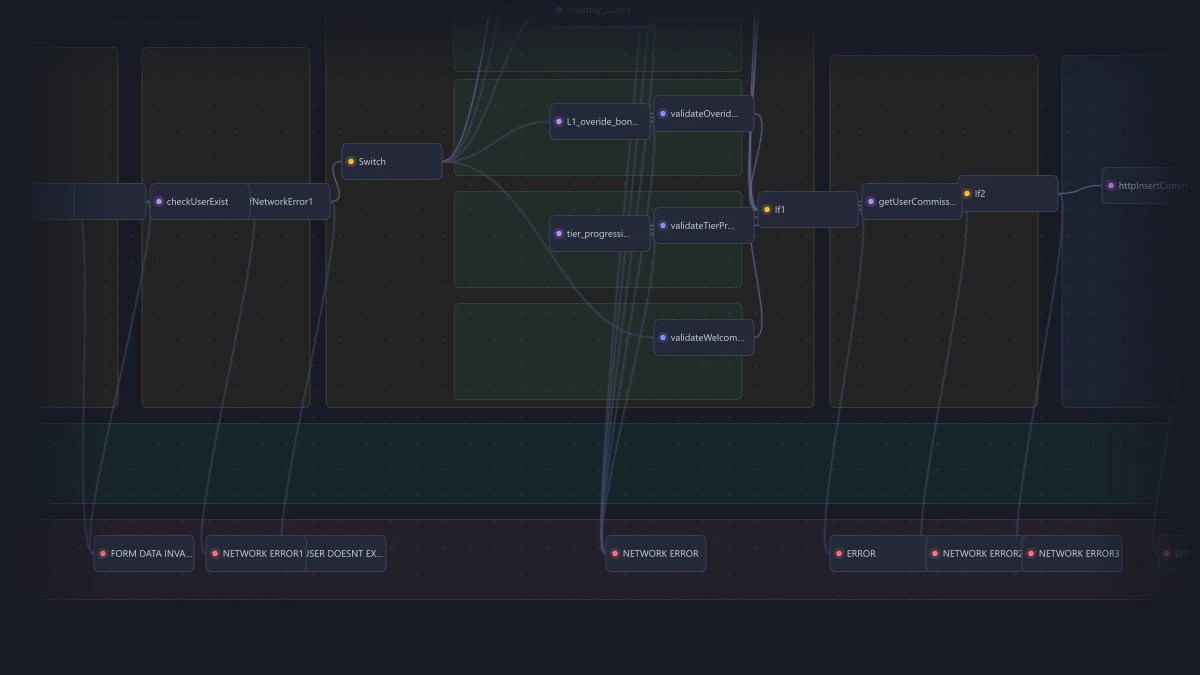
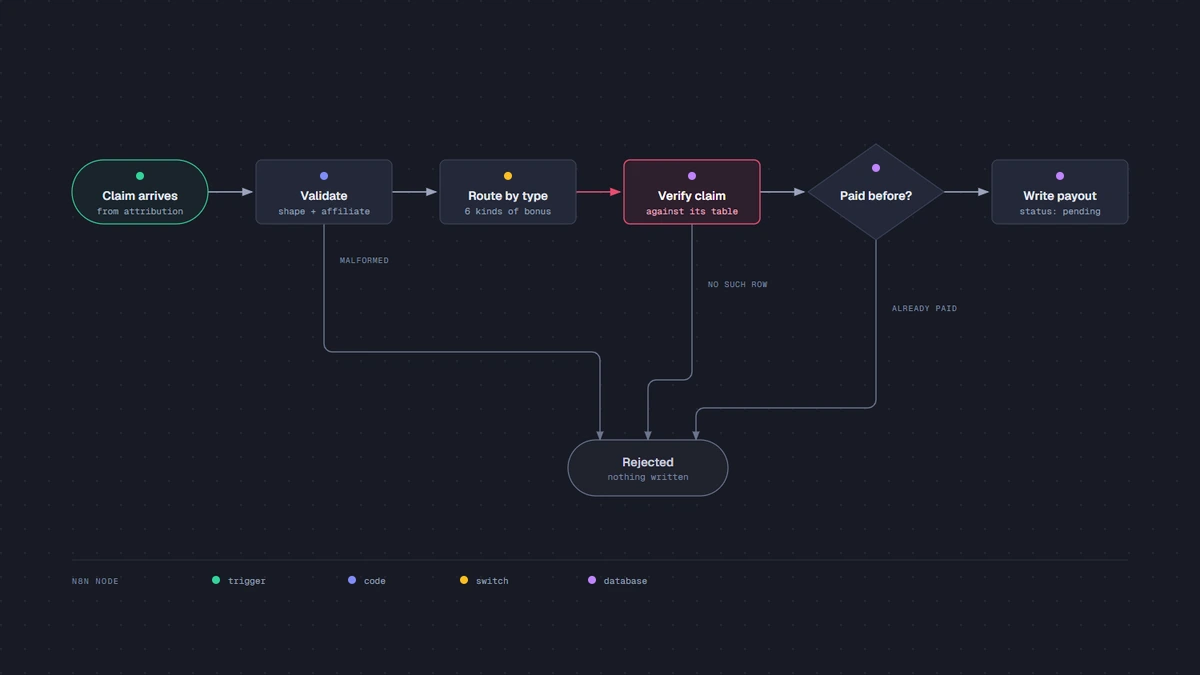
redraw the commission engine as a proper flowchart

diff --git a/scripts/diagrams/commission-engine.html b/scripts/diagrams/commission-engine.html
@@ -1,0 +1,128 @@
+<!DOCTYPE html>
+<html lang="en">
+<head>
+  <meta charset="UTF-8">
+  <meta name="viewport" content="width=device-width, initial-scale=1.0">
+  <title>Commission engine</title>
+  <link href="https://fonts.googleapis.com/css2?family=Instrument+Serif:ital@0;1&family=Geist:wght@400;500;600&family=Geist+Mono:wght@400;500;600&display=swap" rel="stylesheet">
+  <style>
+    *, *::before, *::after { box-sizing: border-box; margin: 0; padding: 0; }
+    body { background: #171a24; font-family: 'Geist', system-ui, sans-serif; }
+    /* The export target: exactly the card's 16:9 frame, nothing around it. */
+    svg#d { width: 1200px; height: 675px; display: block; }
+  </style>
+</head>
+<body>
+  <svg id="d" viewBox="0 0 1200 675" xmlns="http://www.w3.org/2000/svg"
+       role="img" aria-labelledby="commission-engine-title commission-engine-desc">
+    <title id="commission-engine-title">Commission engine</title>
+    <desc id="commission-engine-desc">A commission claim is validated, routed by commission type, checked against the source-of-truth table for that type, screened for duplicates, and only then written as a pending commission. Failing any of those three gates rejects the claim and writes nothing.</desc>
+
+    <defs>
+      <marker id="arrow" markerWidth="8" markerHeight="6" refX="7" refY="3" orient="auto">
+        <polygon points="0 0, 8 3, 0 6" fill="#9aa4bd"/>
+      </marker>
+      <marker id="arrow-accent" markerWidth="8" markerHeight="6" refX="7" refY="3" orient="auto">
+        <polygon points="0 0, 8 3, 0 6" fill="#ea4b71"/>
+      </marker>
+      <marker id="arrow-soft" markerWidth="8" markerHeight="6" refX="7" refY="3" orient="auto">
+        <polygon points="0 0, 8 3, 0 6" fill="#6b7590"/>
+      </marker>
+      <pattern id="dots" width="24" height="24" patternUnits="userSpaceOnUse">
+        <circle cx="1" cy="1" r="1" fill="rgba(232,236,245,0.07)"/>
+      </pattern>
+    </defs>
+
+    <rect width="100%" height="100%" fill="#171a24"/>
+    <rect width="100%" height="100%" fill="url(#dots)"/>
+
+    <!-- ══ arrows first, so nodes paint over the stroke ends ══ -->
+
+    <!-- happy path: one spine, left to right. The accented leg is the claim
+         reaching the check that actually decides whether it is real. -->
+    <line x1="208" y1="192" x2="252" y2="192" stroke="#9aa4bd" stroke-width="1.4" marker-end="url(#arrow)"/>
+    <line x1="392" y1="192" x2="436" y2="192" stroke="#9aa4bd" stroke-width="1.4" marker-end="url(#arrow)"/>
+    <line x1="576" y1="192" x2="620" y2="192" stroke="#ea4b71" stroke-width="1.4" marker-end="url(#arrow-accent)"/>
+    <line x1="760" y1="192" x2="804" y2="192" stroke="#9aa4bd" stroke-width="1.4" marker-end="url(#arrow)"/>
+    <line x1="944" y1="192" x2="988" y2="192" stroke="#9aa4bd" stroke-width="1.4" marker-end="url(#arrow)"/>
+
+    <!-- Three gates drop to one outcome. Each gets its own rail height and its
+         own attach point on the oval, so no two strokes ever share a path. -->
+    <path d="M324,224 V344 a8,8 0 0 0 8,8 H592 a8,8 0 0 1 8,8 V440"
+          fill="none" stroke="#6b7590" stroke-width="1.2" marker-end="url(#arrow-soft)"/>
+    <path d="M692,224 V372 a8,8 0 0 1 -8,8 H656 a8,8 0 0 0 -8,8 V440"
+          fill="none" stroke="#6b7590" stroke-width="1.2" marker-end="url(#arrow-soft)"/>
+    <path d="M876,236 V400 a8,8 0 0 1 -8,8 H704 a8,8 0 0 0 -8,8 V440"
+          fill="none" stroke="#6b7590" stroke-width="1.2" marker-end="url(#arrow-soft)"/>
+
+    <!-- reject labels: beside the vertical run, clear of the stroke -->
+    <rect x="336" y="252" width="64" height="14" rx="2" fill="#171a24"/>
+    <text x="340" y="263" fill="#7f8aa5" font-size="8" font-family="'Geist Mono', monospace" letter-spacing="0.08em">MALFORMED</text>
+    <rect x="704" y="276" width="76" height="14" rx="2" fill="#171a24"/>
+    <text x="708" y="287" fill="#7f8aa5" font-size="8" font-family="'Geist Mono', monospace" letter-spacing="0.08em">NO SUCH ROW</text>
+    <rect x="888" y="300" width="76" height="14" rx="2" fill="#171a24"/>
+    <text x="892" y="311" fill="#7f8aa5" font-size="8" font-family="'Geist Mono', monospace" letter-spacing="0.08em">ALREADY PAID</text>
+
+    <!-- ══ nodes ══ -->
+
+    <!-- 1. start -->
+    <rect x="72" y="160" width="136" height="64" rx="32" fill="#171a24"/>
+    <rect x="72" y="160" width="136" height="64" rx="32" fill="rgba(52,211,153,0.06)" stroke="#34d399" stroke-width="1"/>
+    <circle cx="140" cy="176" r="4" fill="#34d399"/>
+    <text x="140" y="200" fill="#e8ecf5" font-size="12" font-weight="600" font-family="'Geist', sans-serif" text-anchor="middle">Claim arrives</text>
+    <text x="140" y="214" fill="#9aa4bd" font-size="9" font-family="'Geist Mono', monospace" text-anchor="middle">from attribution</text>
+
+    <!-- 2. validate -->
+    <rect x="256" y="160" width="136" height="64" rx="6" fill="#171a24"/>
+    <rect x="256" y="160" width="136" height="64" rx="6" fill="#232838" stroke="#39415a" stroke-width="1"/>
+    <circle cx="324" cy="176" r="4" fill="#818cf8"/>
+    <text x="324" y="200" fill="#e8ecf5" font-size="12" font-weight="600" font-family="'Geist', sans-serif" text-anchor="middle">Validate</text>
+    <text x="324" y="214" fill="#9aa4bd" font-size="9" font-family="'Geist Mono', monospace" text-anchor="middle">shape + affiliate</text>
+
+    <!-- 3. route -->
+    <rect x="440" y="160" width="136" height="64" rx="6" fill="#171a24"/>
+    <rect x="440" y="160" width="136" height="64" rx="6" fill="#232838" stroke="#39415a" stroke-width="1"/>
+    <circle cx="508" cy="176" r="4" fill="#fbbf24"/>
+    <text x="508" y="200" fill="#e8ecf5" font-size="12" font-weight="600" font-family="'Geist', sans-serif" text-anchor="middle">Route by type</text>
+    <text x="508" y="214" fill="#9aa4bd" font-size="9" font-family="'Geist Mono', monospace" text-anchor="middle">6 kinds of bonus</text>
+
+    <!-- 4. FOCAL — the one check the whole engine exists for -->
+    <rect x="624" y="160" width="136" height="64" rx="6" fill="#171a24"/>
+    <rect x="624" y="160" width="136" height="64" rx="6" fill="rgba(234,75,113,0.10)" stroke="#ea4b71" stroke-width="1.2"/>
+    <circle cx="692" cy="176" r="4" fill="#c084fc"/>
+    <text x="692" y="200" fill="#ffffff" font-size="12" font-weight="600" font-family="'Geist', sans-serif" text-anchor="middle">Verify claim</text>
+    <text x="692" y="214" fill="#f3aec0" font-size="9" font-family="'Geist Mono', monospace" text-anchor="middle">against its table</text>
+
+    <!-- 5. duplicate gate -->
+    <polygon points="876,144 944,192 876,240 808,192" fill="#171a24"/>
+    <polygon points="876,144 944,192 876,240 808,192" fill="#232838" stroke="#39415a" stroke-width="1"/>
+    <circle cx="876" cy="168" r="4" fill="#c084fc"/>
+    <text x="876" y="200" fill="#e8ecf5" font-size="12" font-weight="600" font-family="'Geist', sans-serif" text-anchor="middle">Paid before?</text>
+
+    <!-- 6. write -->
+    <rect x="992" y="160" width="136" height="64" rx="6" fill="#171a24"/>
+    <rect x="992" y="160" width="136" height="64" rx="6" fill="#232838" stroke="#39415a" stroke-width="1"/>
+    <circle cx="1060" cy="176" r="4" fill="#c084fc"/>
+    <text x="1060" y="200" fill="#e8ecf5" font-size="12" font-weight="600" font-family="'Geist', sans-serif" text-anchor="middle">Write payout</text>
+    <text x="1060" y="214" fill="#9aa4bd" font-size="9" font-family="'Geist Mono', monospace" text-anchor="middle">status: pending</text>
+
+    <!-- 7. rejected -->
+    <rect x="568" y="440" width="160" height="56" rx="28" fill="#171a24"/>
+    <rect x="568" y="440" width="160" height="56" rx="28" fill="rgba(154,164,189,0.06)" stroke="#6b7590" stroke-width="1"/>
+    <text x="648" y="466" fill="#c8cfdf" font-size="12" font-weight="600" font-family="'Geist', sans-serif" text-anchor="middle">Rejected</text>
+    <text x="648" y="480" fill="#7f8aa5" font-size="9" font-family="'Geist Mono', monospace" text-anchor="middle">nothing written</text>
+
+    <!-- ══ legend ══ -->
+    <line x1="72" y1="560" x2="1128" y2="560" stroke="rgba(232,236,245,0.12)" stroke-width="0.8"/>
+    <text x="72" y="584" fill="#7f8aa5" font-size="8" font-family="'Geist Mono', monospace" letter-spacing="0.14em">N8N NODE</text>
+    <circle cx="216" cy="580" r="4" fill="#34d399"/>
+    <text x="228" y="584" fill="#9aa4bd" font-size="9" font-family="'Geist Mono', monospace">trigger</text>
+    <circle cx="352" cy="580" r="4" fill="#818cf8"/>
+    <text x="364" y="584" fill="#9aa4bd" font-size="9" font-family="'Geist Mono', monospace">code</text>
+    <circle cx="464" cy="580" r="4" fill="#fbbf24"/>
+    <text x="476" y="584" fill="#9aa4bd" font-size="9" font-family="'Geist Mono', monospace">switch</text>
+    <circle cx="592" cy="580" r="4" fill="#c084fc"/>
+    <text x="604" y="584" fill="#9aa4bd" font-size="9" font-family="'Geist Mono', monospace">database</text>
+  </svg>
+</body>
+</html>

diff --git a/content/work.ts b/content/work.ts
@@ -110,7 +110,7 @@ export const work: WorkItem[] = [
       {
         src: "workflow-commission-engine.webp",
         caption:
-          "The commission engine. Six commission types fan out from one switch, and each is checked against its own source-of-truth table before a payout row is written.",
+          "The commission engine. Every claim is routed by type and checked against the table that owns that bonus — a claim nobody can vouch for is rejected rather than paid.",
       },
       {
         src: "workflow-sales-attribution.webp",
